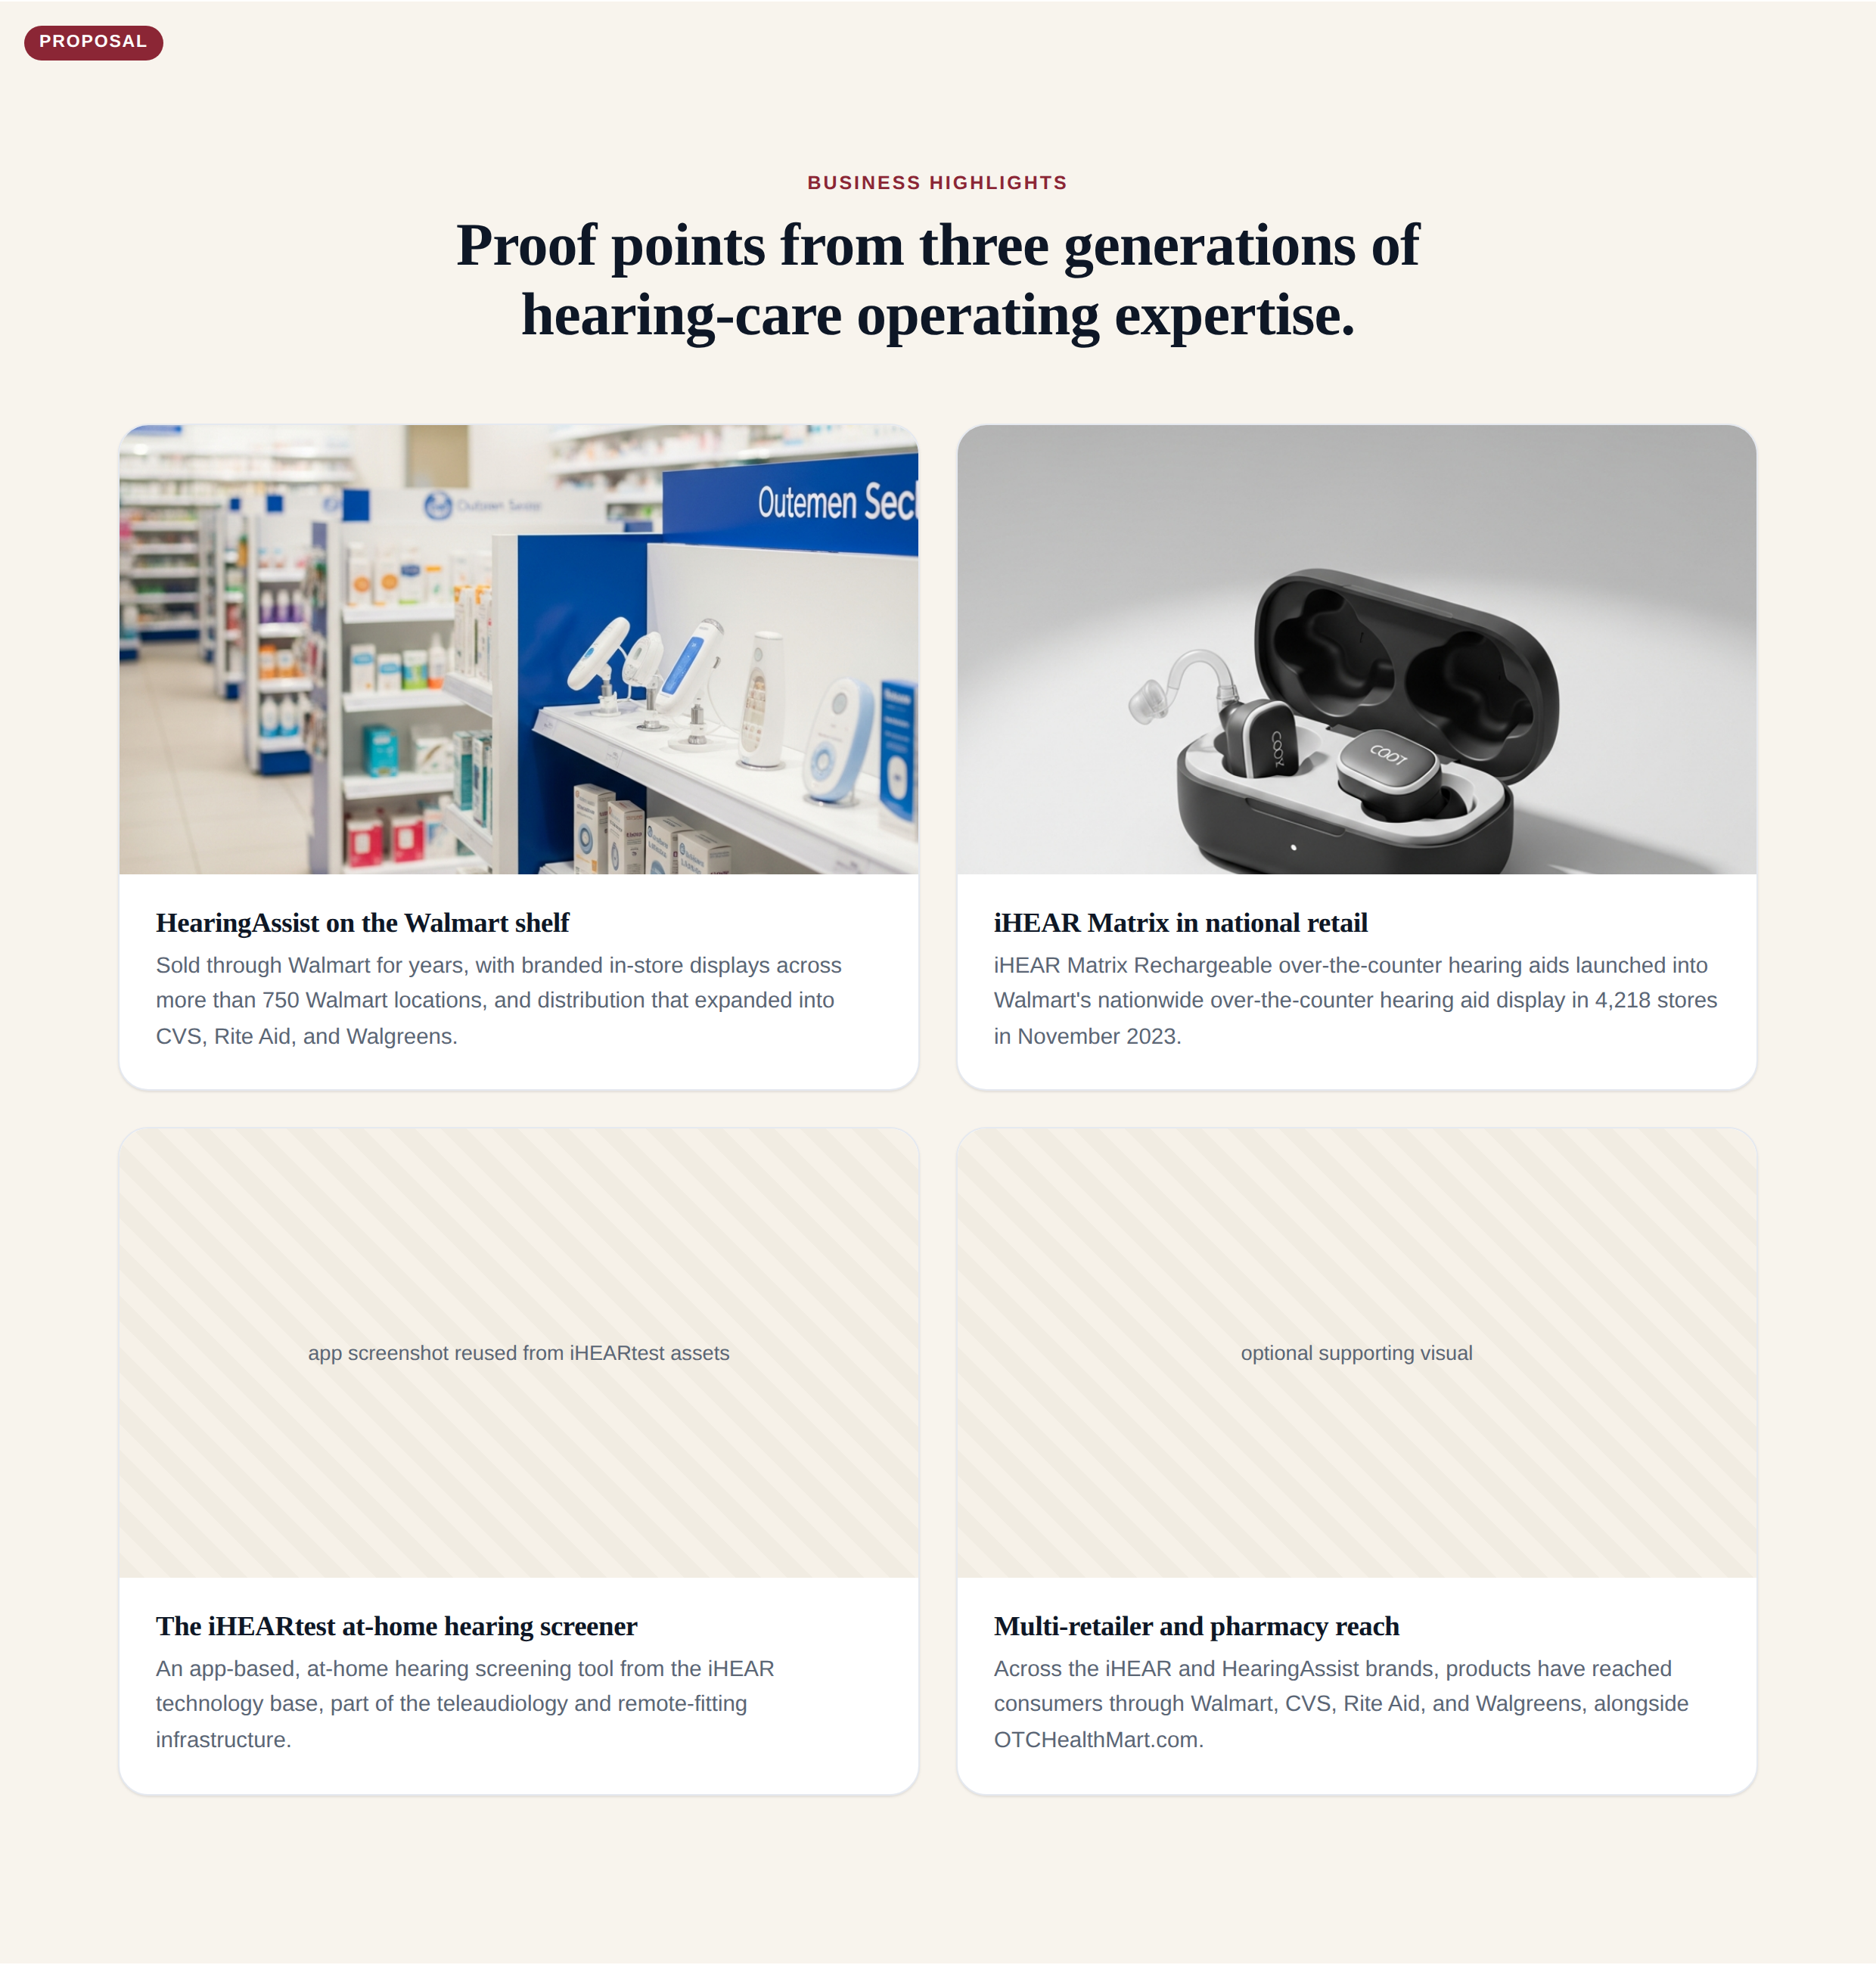
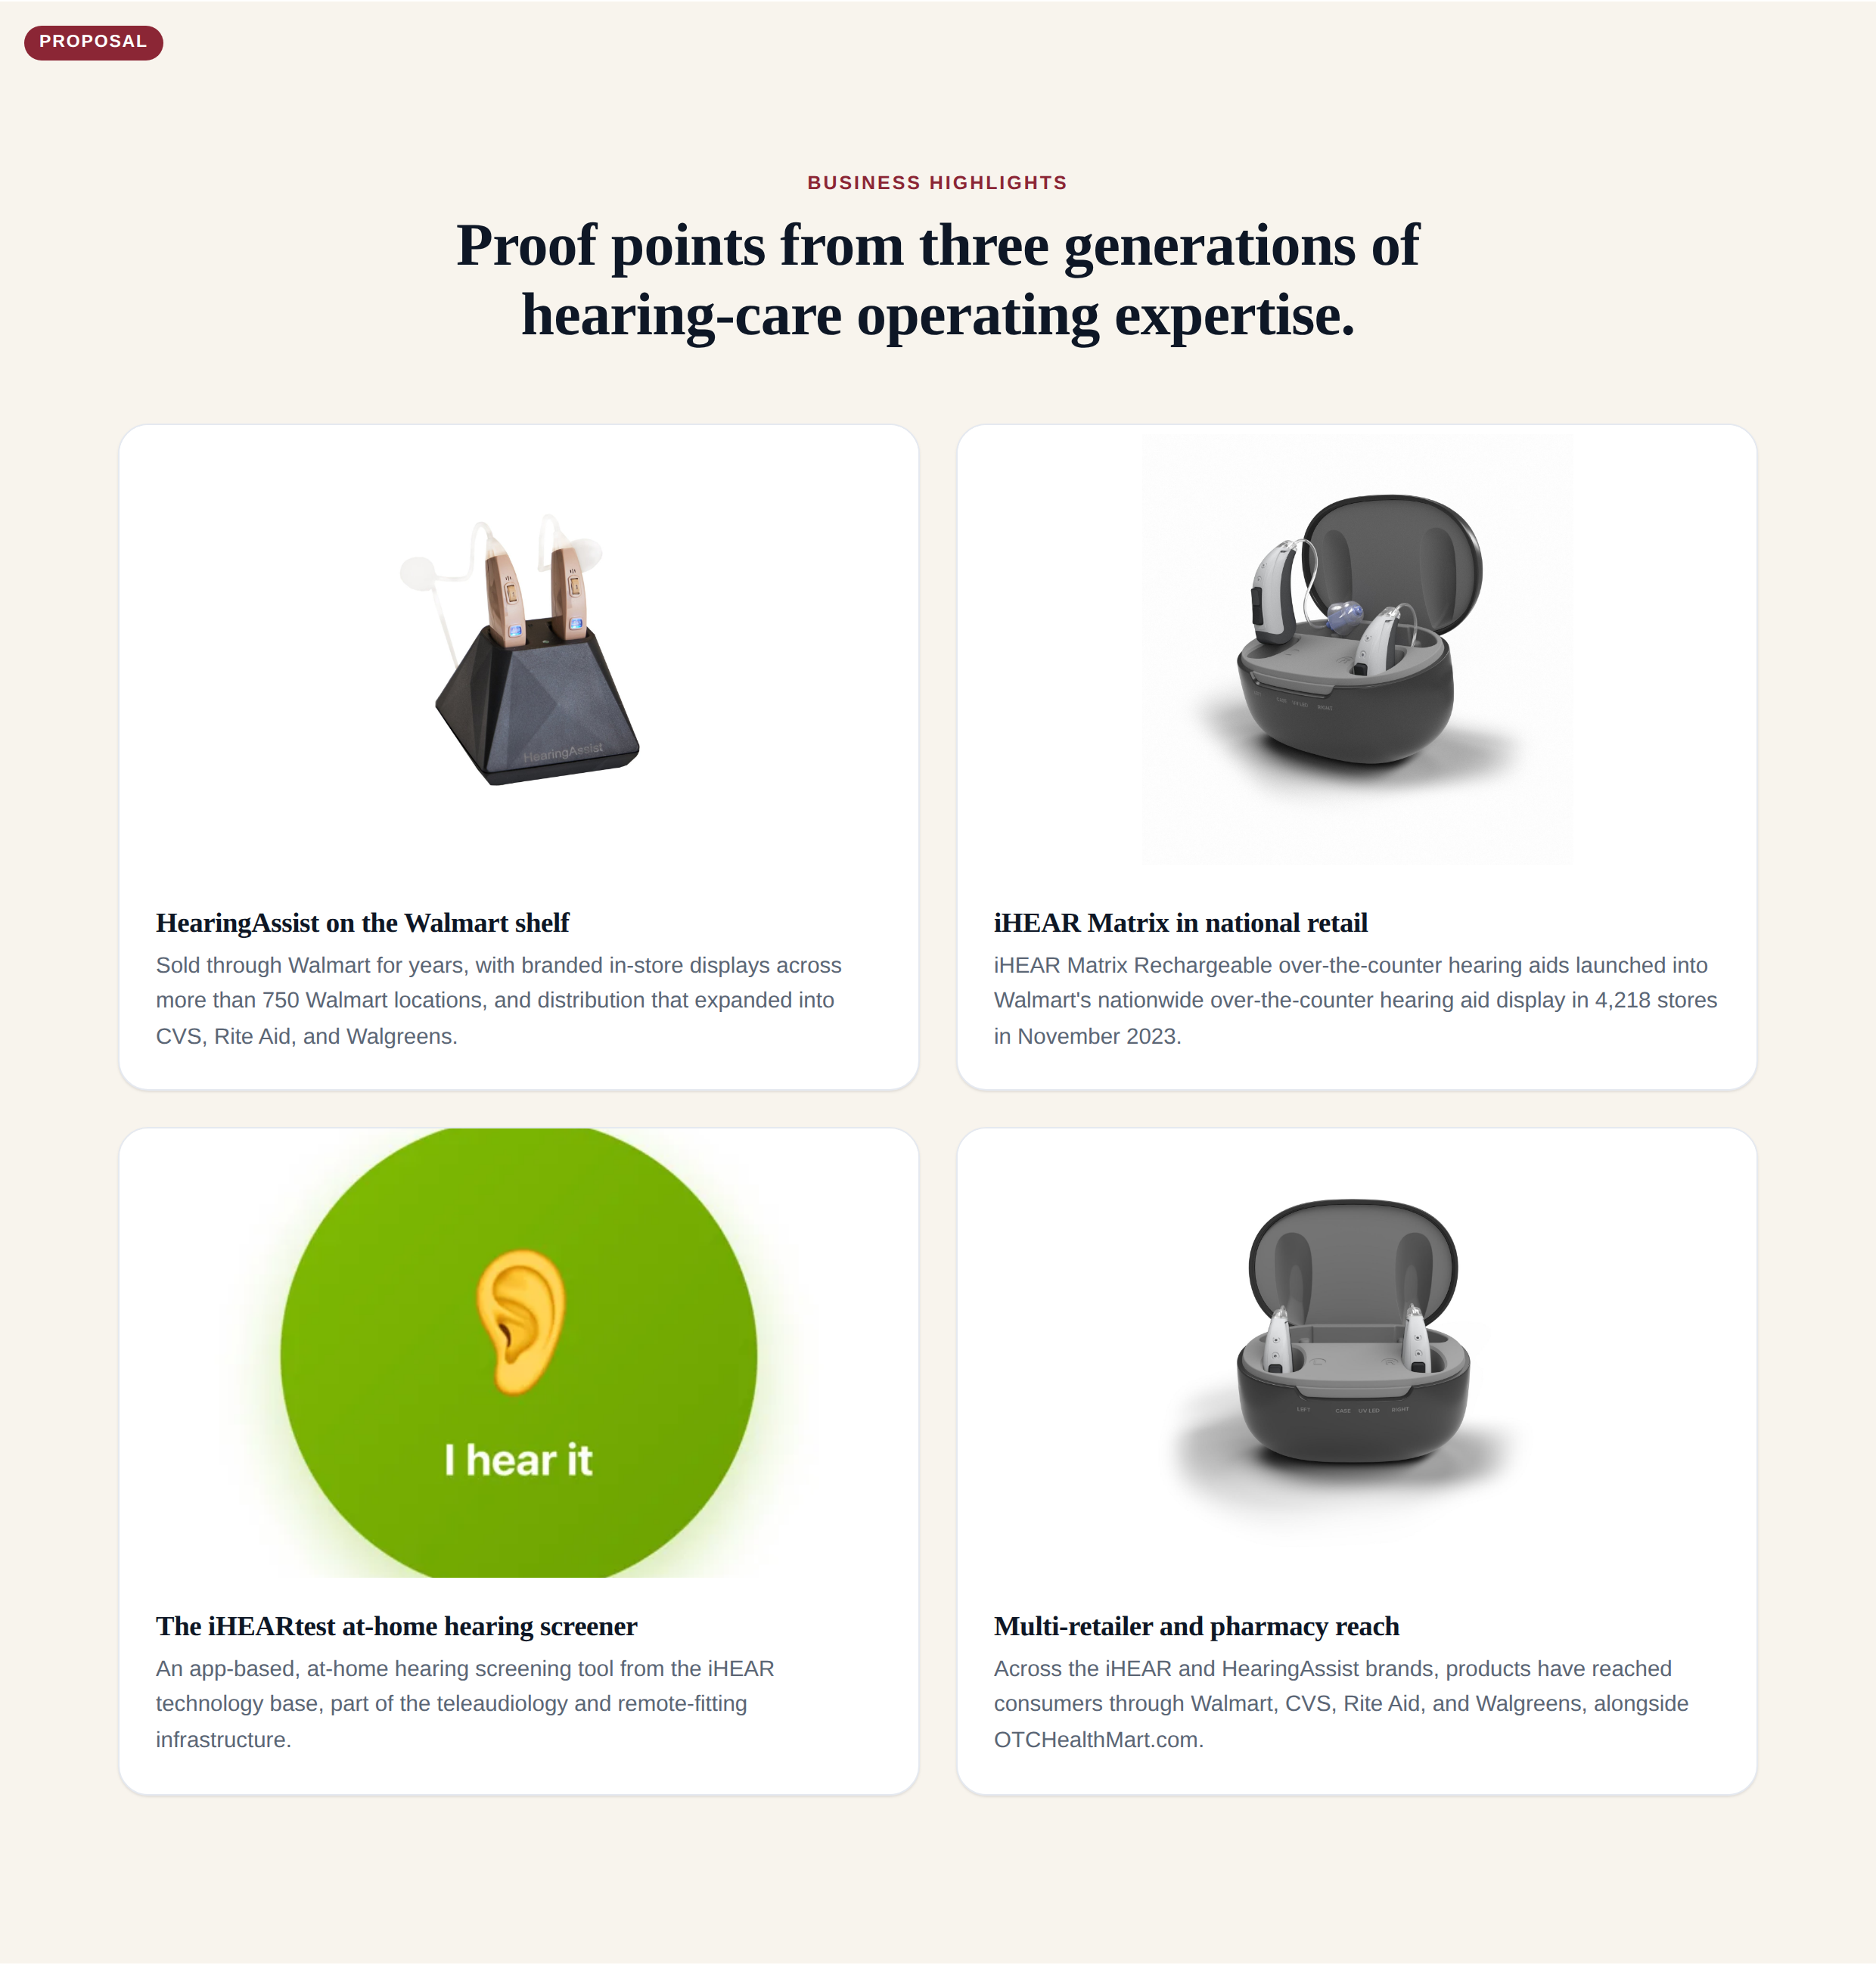
Swap mockup placeholders for real, sourced photography
Leadership cards now use real headshots cropped from the 2016 Moore family
photo already in the repo (verified left to right). Business Highlights now use
real iHEAR Matrix and HearingAssist product photos from the OTCHealthMart
storefront plus the real iHEARtest app screen. Promotional banner images with
pricing and claims were excluded. SOURCES.md documents provenance and rights;
operator and counsel to confirm usage before any production use.

https://claude.ai/code/session_013G43J6CxvLhDDcnMC8aJE2

Changed region(s): [[0.0621, 0.5612, 0.9315, 0.8106], [0.0621, 0.2182, 0.9625, 0.4677]]

diff --git a/assets/proposed/mockups/redesign-preview.html b/assets/proposed/mockups/redesign-preview.html
@@ -73,6 +73,8 @@ body { background: var(--color-bg-alt); }
   overflow:hidden; box-shadow:var(--shadow-sm); display:flex; flex-direction:column; }
 .m-high .ph { aspect-ratio:16/9; overflow:hidden; background:var(--color-bg-soft); }
 .m-high .ph img { width:100%; height:100%; object-fit:cover; display:block; }
+.m-high .ph.product { background:#fff; }
+.m-high .ph.product img { object-fit:contain; padding:6px; }
 .m-high .ph.empty { display:flex; align-items:center; justify-content:center; color:var(--color-muted);
   font-size:.85rem; background:repeating-linear-gradient(45deg,#f1ece2,#f1ece2 12px,#f6f1e8 12px,#f6f1e8 24px); }
 .m-high .body { padding:22px 24px; }
@@ -157,13 +159,13 @@ body { background: var(--color-bg-alt); }
   <div class="container mock-wrap">
     <header class="section-head"><p class="eyebrow">Business highlights</p><h2>Proof points from three generations of hearing-care operating expertise.</h2></header>
     <div class="m-high">
-      <div class="card"><div class="ph"><img src="/assets/proposed/mockup-retail-shelf.png" alt=""></div>
+      <div class="card"><div class="ph product"><img src="/assets/proposed/real/real-hearingassist-hero.jpg" alt="HearingAssist rechargeable behind-the-ear hearing aids on their charging base."></div>
         <div class="body"><h3>HearingAssist on the Walmart shelf</h3><p>Sold through Walmart for years, with branded in-store displays across more than 750 Walmart locations, and distribution that expanded into CVS, Rite Aid, and Walgreens.</p></div></div>
-      <div class="card"><div class="ph"><img src="/assets/proposed/mockup-product-cropped.png" alt=""></div>
+      <div class="card"><div class="ph product"><img src="/assets/proposed/real/real-matrix-pair.jpg" alt="iHEAR Matrix rechargeable over-the-counter hearing aids in their charging case."></div>
         <div class="body"><h3>iHEAR Matrix in national retail</h3><p>iHEAR Matrix Rechargeable over-the-counter hearing aids launched into Walmart's nationwide over-the-counter hearing aid display in 4,218 stores in November 2023.</p></div></div>
-      <div class="card"><div class="ph empty">app screenshot reused from iHEARtest assets</div>
+      <div class="card"><div class="ph"><img src="/iheartest/assets/screen-test.webp" alt="iHEARtest at-home hearing screening app."></div>
         <div class="body"><h3>The iHEARtest at-home hearing screener</h3><p>An app-based, at-home hearing screening tool from the iHEAR technology base, part of the teleaudiology and remote-fitting infrastructure.</p></div></div>
-      <div class="card"><div class="ph empty">optional supporting visual</div>
+      <div class="card"><div class="ph product"><img src="/assets/proposed/real/real-matrix-case.jpg" alt="iHEAR Matrix charging case, front view."></div>
         <div class="body"><h3>Multi-retailer and pharmacy reach</h3><p>Across the iHEAR and HearingAssist brands, products have reached consumers through Walmart, CVS, Rite Aid, and Walgreens, alongside OTCHealthMart.com.</p></div></div>
     </div>
   </div>
@@ -176,17 +178,17 @@ body { background: var(--color-bg-alt); }
   <div class="container mock-wrap">
     <header class="section-head"><p class="eyebrow">Leadership</p><h2>Family-rooted operating experience meets public-markets discipline.</h2></header>
     <div class="m-lead">
-      <div class="card"><div class="ring"><img src="/assets/proposed/sample-leader-placeholder.png" alt=""></div>
+      <div class="card"><div class="ring"><img src="/assets/proposed/real/headshot-matthew.png" alt="Matthew Moore"></div>
         <p class="nm">Matthew Moore</p><p class="ti">Co-Founder and Chief Executive Officer</p>
         <p class="bio">Third-generation hearing health professional. Joined the family business in 2006, founded InnerScope in 2012, and led its pivot into retail and direct-to-consumer hearing care.</p></div>
-      <div class="card"><div class="ring"><img src="/assets/proposed/sample-leader-placeholder.png" alt=""></div>
+      <div class="card"><div class="ring"><img src="/assets/proposed/real/headshot-kimberly.png" alt="Kimberly Moore"></div>
         <p class="nm">Kimberly Moore</p><p class="ti">Co-Founder and Chief Financial Officer</p>
         <p class="bio">More than 50 years in hearing health. A Licensed Hearing Instrument Specialist who served as CFO of the family clinic network for nearly three decades. Chief Executive of OTCHealth Inc.</p></div>
-      <div class="card"><div class="ring"><img src="/assets/proposed/sample-leader-placeholder.png" alt=""></div>
+      <div class="card"><div class="ring"><img src="/assets/proposed/real/headshot-mark.png" alt="Mark Moore"></div>
         <p class="nm">Mark Moore</p><p class="ti">Co-Founder, Chairman and Chief Strategy Officer</p>
         <p class="bio">Co-founded the family hearing enterprise in 1987 and led it for 29 years. Deep expertise in practice management, private-label branding, and product development. COO of OTCHealth Inc.</p></div>
     </div>
-    <p class="m-note">Placeholder avatars shown. Recommendation is real, operator-supplied headshots. Do not generate synthetic faces of named executives.</p>
+    <p class="m-note">Real headshots, cropped from the 2016 Moore family photo already in the repo. Rights-clean and verified left to right against the original.</p>
   </div>
 </section>
 <p class="mock-cap">Leadership: the empty photo slots filled with a branded faceless placeholder in a teal ring, so the cards read as intentional until real headshots arrive.</p>

diff --git a/assets/proposed/real/SOURCES.md b/assets/proposed/real/SOURCES.md
@@ -1,0 +1,55 @@
+# Real photos (sourced, not placeholders)
+
+These replace the earlier AI-generated samples with genuine photography. Each
+entry lists where the image came from and the rights position. Nothing here is
+wired into the live site yet. Operator and counsel should confirm usage rights
+before any of these ship to production.
+
+## Leadership headshots
+
+Cropped from `assets/photos/03-moore-family-2016-listing.jpg`, the real Moore
+family photo already committed to this repo. Verified left to right against the
+original: Matthew (left), Mark (center, in the InnerScope sweater), Kimberly
+(right).
+
+| File | Person | Source | Rights |
+|---|---|---|---|
+| `headshot-matthew.png` | Matthew Moore, CEO | Crop of repo photo 03 | Already in repo, operator-owned |
+| `headshot-mark.png` | Mark Moore, Chairman and CSO | Crop of repo photo 03 | Already in repo, operator-owned |
+| `headshot-kimberly.png` | Kimberly Moore, CFO | Crop of repo photo 03 | Already in repo, operator-owned |
+
+Note: these are 2016-era crops from a group photo. If the company wants matched,
+current, individually shot headshots, those should be photographed. The crops
+are a rights-clean stand-in that uses real faces, not synthetic ones.
+
+## Product photography
+
+Downloaded from the company storefront OTCHealthMart.com (operated by OTCHealth,
+the operating partner). These are the company's own product images on plain
+white backgrounds, with no promotional text or pricing.
+
+| File | Product | Source URL | Rights |
+|---|---|---|---|
+| `real-matrix-pair.jpg` | iHEAR Matrix, pair in open charging case | https://www.otchealthmart.com/products/matrix-by-ihear-otc-hearing-aid | OTCHealth product image, confirm rights |
+| `real-matrix-case.jpg` | iHEAR Matrix, charging case front | https://www.otchealthmart.com/products/matrix-by-ihear-otc-hearing-aid | OTCHealth product image, confirm rights |
+| `real-hearingassist-hero.jpg` | HearingAssist rechargeable BTE on charging base | https://www.otchealthmart.com/products/hearingassist-eaze-rechargeable-bte | OTCHealth product image, confirm rights |
+
+## Not used (promotional banners, contain pricing and claims)
+
+These were downloaded during research but are not suitable for the IR site
+because they carry pricing and marketing claims baked into the image. Kept only
+for reference. Do not place on the IR site.
+
+| File | Why excluded |
+|---|---|
+| `real-ihear-matrix.jpg` | Banner with "$349 the pair", "$995", "in 4,400+ pharmacies" claim |
+| `real-ihear-treo.jpg` | Banner with "From $99" pricing and lifestyle overlay |
+
+## Compliance notes
+
+- No pricing or marketing claims from the storefront banners were carried over.
+- iHEARtest highlight card reuses `iheartest/assets/screen-test.webp`, a real
+  app screen already in the repo.
+- No synthetic faces of named executives were generated.
+- Confirm product image usage rights and that each pictured SKU is current
+  before publish.